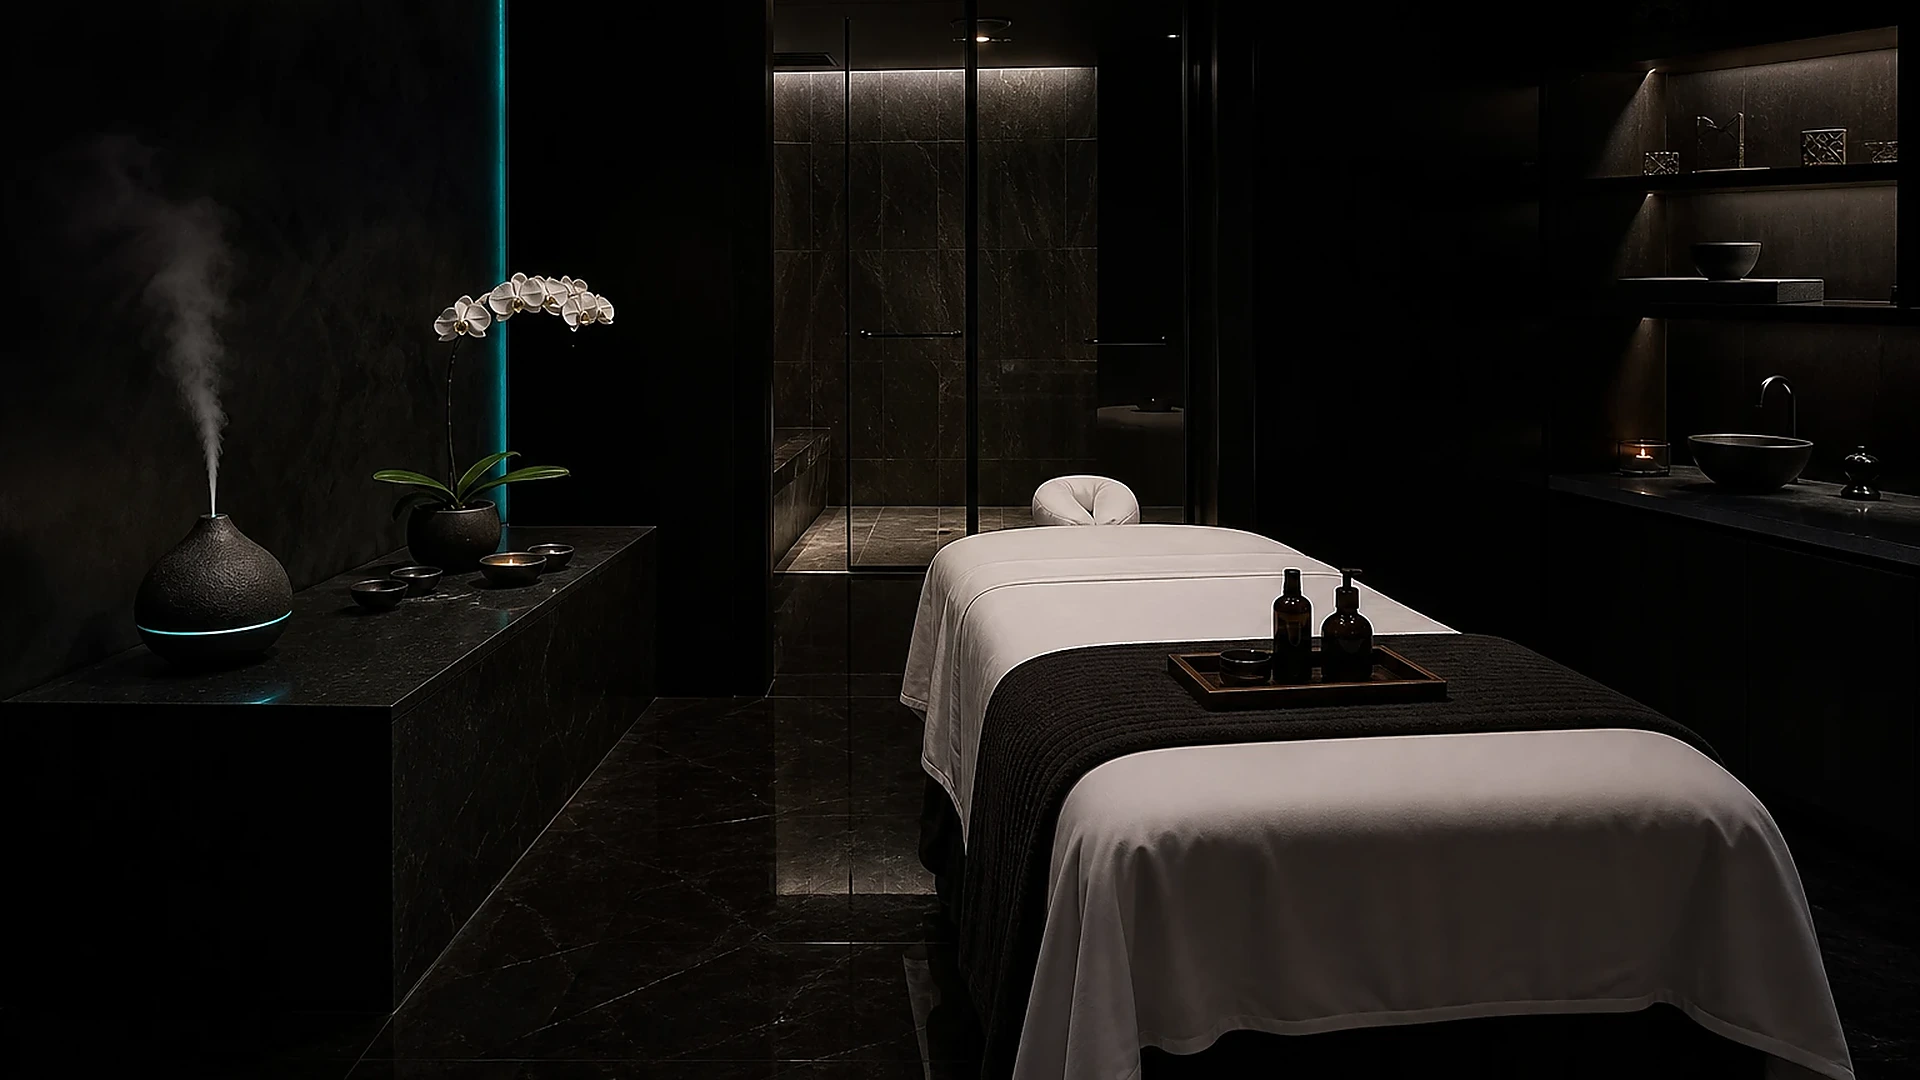
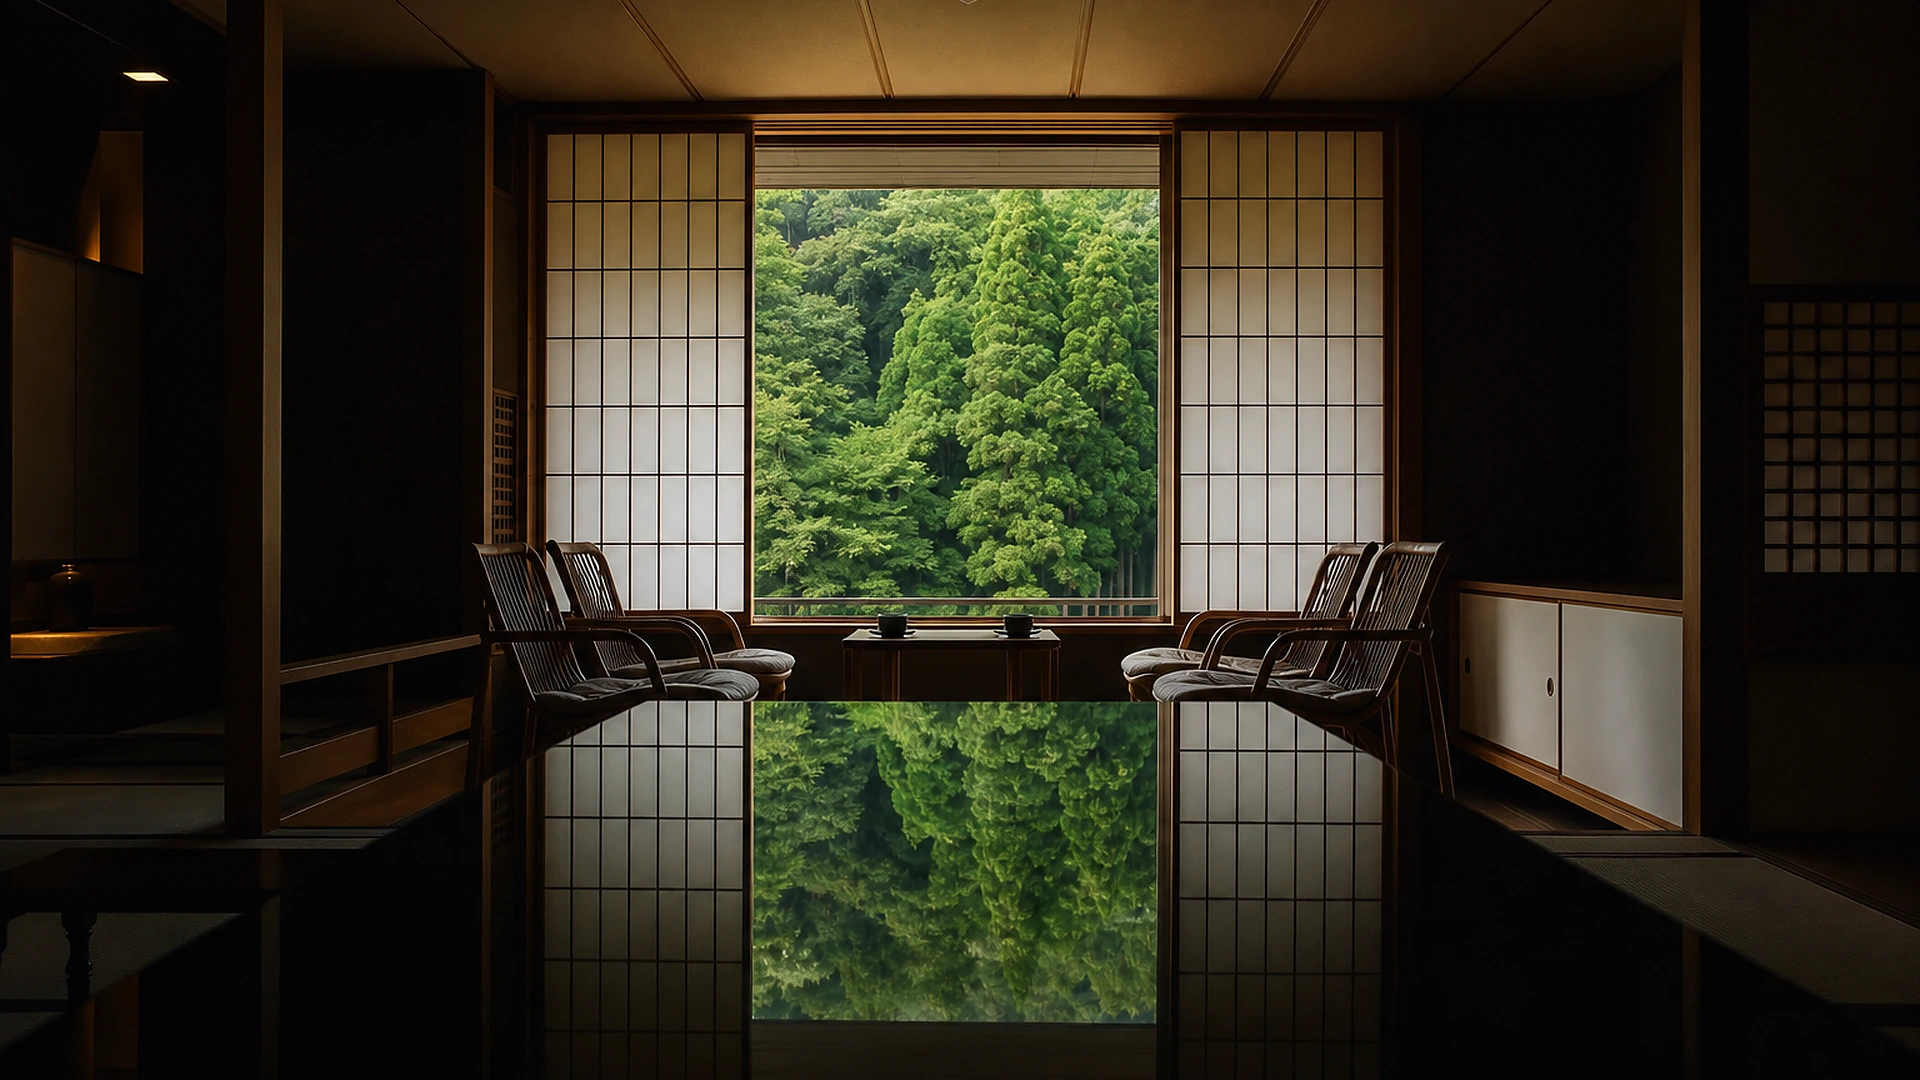
header

diff --git a/assets/css/pages/home-v4.css b/assets/css/pages/home-v4.css
@@ -112,7 +112,7 @@
   width: 100%;
   height: 100%;
   object-fit: cover;
-  object-position: center 42%;
+  object-position: center center;
   transform: translateZ(0);
   -webkit-backface-visibility: hidden;
   backface-visibility: hidden;
@@ -137,33 +137,26 @@
   width: 100%;
   max-width: var(--container-xl);
   margin-inline: auto;
-  padding: calc(var(--nav-height) + 4rem) var(--container-pad) clamp(5.5rem, 11vw, 8rem);
+  min-height: calc(100svh - var(--nav-height));
+  min-height: calc(100dvh - var(--nav-height));
+  padding: calc(var(--nav-height) + 1rem) var(--container-pad) 1.25rem;
   display: flex;
   flex-direction: column;
   align-items: center;
+  justify-content: center;
   text-align: center;
-}
-
-.hero2__eyebrow {
-  font-family: var(--font-body);
-  font-size: clamp(0.65rem, 1.5vw, 0.75rem);
-  font-weight: 500;
-  letter-spacing: 0.2em;
-  text-transform: uppercase;
-  color: rgba(255, 255, 255, 0.88);
-  margin-bottom: clamp(1.25rem, 3vw, 2rem);
-  animation: heroFadeUp 1.1s ease 0.5s both;
+  box-sizing: border-box;
 }
 
 .hero2__title {
   font-family: var(--font-display);
-  font-size: clamp(3.25rem, 10.5vw, 7.75rem);
+  font-size: clamp(2.35rem, 6.5vw, 4.75rem);
   font-weight: 400;
-  line-height: 1.05;
+  line-height: 1.06;
   letter-spacing: .01em;
   color: var(--text-primary);
-  max-width: 18ch;
-  margin-bottom: 2rem;
+  max-width: 20ch;
+  margin-bottom: 1rem;
   animation: heroFadeUp 1.1s ease .75s both;
 }
 .hero2__title em {
@@ -181,12 +174,12 @@
 
 .hero2__sub {
   font-family: var(--font-body);
-  font-size: clamp(1.1rem, 2.2vw, 1.35rem);
+  font-size: clamp(0.95rem, 1.75vw, 1.2rem);
   font-weight: 400;
   color: rgba(255, 255, 255, 0.88);
-  max-width: min(50ch, 100%);
-  line-height: 1.75;
-  margin-bottom: 3rem;
+  max-width: min(42ch, 100%);
+  line-height: 1.65;
+  margin-bottom: 1.5rem;
   animation: heroFadeUp 1.1s ease 1s both;
 }
 
@@ -202,9 +195,9 @@
 }
 
 .hero2__actions .btn--lg {
-  padding: 1.15rem 2.75rem;
-  font-size: 1rem;
-  min-height: 56px;
+  padding: 0.85rem 2rem;
+  font-size: 0.9rem;
+  min-height: 48px;
 }
 
 .hero2__actions .btn--ghost.btn--lg {
@@ -213,83 +206,79 @@
 
 @media (max-width: 767px) {
   .hero2 {
-    min-height: auto;
     min-height: 100svh;
+    min-height: 100dvh;
     width: 100%;
     max-width: 100%;
     overflow-x: hidden;
   }
 
   .hero2__inner {
-    padding: calc(var(--nav-height) + env(safe-area-inset-top) + 1.25rem)
+    min-height: calc(100svh - var(--nav-height));
+    min-height: calc(100dvh - var(--nav-height));
+    padding: calc(var(--nav-height) + env(safe-area-inset-top) + 0.5rem)
       1rem
-      clamp(3.5rem, 8vw, 5rem);
+      1rem;
     width: 100%;
     max-width: 100%;
     box-sizing: border-box;
-    align-items: stretch;
+    align-items: center;
     min-width: 0;
   }
 
-  .hero2__eyebrow {
-    font-size: 0.62rem;
-    letter-spacing: 0.16em;
-    margin-bottom: 1rem;
-    padding-inline: 0.5rem;
-    line-height: 1.5;
-  }
-
   .hero2__title {
-    font-size: clamp(2.5rem, 12vw, 3.5rem);
+    font-size: clamp(2rem, 9.5vw, 2.85rem);
     max-width: 100%;
     width: 100%;
     line-height: 1.08;
     word-wrap: break-word;
     overflow-wrap: break-word;
     hyphens: auto;
-    margin-bottom: 1.5rem;
+    margin-bottom: 0.75rem;
     padding-inline: 0;
   }
 
   .hero2__title em {
-    font-size: 1.18em;
+    font-size: 1.15em;
     line-height: 0.92;
   }
 
   .hero2__sub {
-    font-size: 1rem;
+    font-size: 0.9rem;
     max-width: 100%;
     width: 100%;
     min-width: 0;
     padding-inline: 0;
-    margin-bottom: 1.75rem;
-    line-height: 1.65;
+    margin-bottom: 1rem;
+    line-height: 1.6;
   }
 
   .hero2__actions {
     width: 100%;
     max-width: 100%;
     min-width: 0;
-    flex-direction: column;
+    flex-direction: row;
+    flex-wrap: wrap;
     align-items: center;
-    gap: 0.65rem;
+    justify-content: center;
+    gap: 0.5rem 0.75rem;
     padding-inline: 0;
   }
 
   .hero2__actions .btn,
   .hero2__actions .btn--lg {
     width: auto;
-    max-width: min(100%, 17.5rem);
+    max-width: min(100%, 16rem);
     align-self: center;
     min-width: 0;
     box-sizing: border-box;
     white-space: normal;
     text-align: center;
-    font-size: 0.72rem;
-    letter-spacing: 0.045em;
-    line-height: 1.3;
-    padding: 0.65rem 1.25rem;
-    min-height: 44px;
+    font-size: 0.68rem;
+    letter-spacing: 0.04em;
+    line-height: 1.25;
+    padding: 0.6rem 1.1rem;
+    min-height: 42px;
   }
 
   .hero2__actions .btn--primary {
@@ -304,6 +293,15 @@
 
   .hero2__bg img {
     object-position: center center;
+  }
+
+  body.has-mob-bar .hero2 {
+    min-height: calc(100dvh - 54px - env(safe-area-inset-bottom));
+  }
+
+  body.has-mob-bar .hero2__inner {
+    min-height: calc(100dvh - var(--nav-height) - 54px - env(safe-area-inset-bottom));
+    padding-bottom: 0.5rem;
   }
 
   .sec__title--large br {

diff --git a/cs/index.html b/cs/index.html
@@ -256,9 +256,8 @@
       </div>
       <div class="hero2__overlay" aria-hidden="true"></div>
       <div class="hero2__inner">
-        <p class="hero2__eyebrow">Praha 1 · Prémiový masážní salon</p>
-        <h1 class="hero2__title">Umění<br><em>relaxace</em><br>ve vašich rukou</h1>
-        <p class="hero2__sub">Certifikované masérky, privátní kabinety a luxusní atmosféra v srdci Prahy.</p>
+        <h1 class="hero2__title">Místo<br><em>odpočinku</em><br>a klidu</h1>
+        <p class="hero2__sub">Nechte stres za dveřmi. Privátní kabinety, vědomá masáž a atmosféra, kde si tělo i mysl konečně oddychnou.</p>
         <div class="hero2__actions">
           <a href="/cs/rozvrh/" class="btn btn--primary btn--lg">Rezervovat masáž</a>
           <a href="/cs/masaze/" class="btn btn--ghost btn--lg">Naše masáže</a>

diff --git a/en/index.html b/en/index.html
@@ -256,9 +256,8 @@
       </div>
       <div class="hero2__overlay" aria-hidden="true"></div>
       <div class="hero2__inner">
-        <p class="hero2__eyebrow">Prague 1 · Premium massage salon</p>
-        <h1 class="hero2__title">The art<br>of <em>relaxation</em><br>in your hands</h1>
-        <p class="hero2__sub">Certified masseuses, private cabins and a luxurious atmosphere in the heart of Prague.</p>
+        <h1 class="hero2__title">A place for<br><em>rest</em><br>and calm</h1>
+        <p class="hero2__sub">Leave stress at the door. Private cabins, mindful massage and an atmosphere where body and mind truly recover.</p>
         <div class="hero2__actions">
           <a href="/en/rozvrh/" class="btn btn--primary btn--lg">Book a massage</a>
           <a href="/en/masaze/" class="btn btn--ghost btn--lg">Our massages</a>

diff --git a/ru/index.html b/ru/index.html
@@ -256,9 +256,8 @@
       </div>
       <div class="hero2__overlay" aria-hidden="true"></div>
       <div class="hero2__inner">
-        <p class="hero2__eyebrow">Прага 1 · Премиальный массажный салон</p>
-        <h1 class="hero2__title">Искусство<br><em>расслабления</em><br>в ваших руках</h1>
-        <p class="hero2__sub">Сертифицированные массажистки, приватные кабинеты и роскошная атмосфера в центре Праги.</p>
+        <h1 class="hero2__title">Место<br><em>отдыха</em><br>и покоя</h1>
+        <p class="hero2__sub">Оставьте стресс за дверью. Приватные кабинеты, сознательный массаж и атмосфера, где тело и разум наконец отдохнут.</p>
         <div class="hero2__actions">
           <a href="/ru/rozvrh/" class="btn btn--primary btn--lg">Записаться на массаж</a>
           <a href="/ru/masaze/" class="btn btn--ghost btn--lg">Наши массажи</a>

diff --git a/templates/pages/home.html b/templates/pages/home.html
@@ -43,7 +43,6 @@
     </div>
     <div class="hero2__overlay" aria-hidden="true"></div>
     <div class="hero2__inner">
-      <p class="hero2__eyebrow">{{ home.hero_eyebrow }}</p>
       <h1 class="hero2__title">{{ home.hero_title|safe }}</h1>
       <p class="hero2__sub">{{ home.hero_sub }}</p>
       <div class="hero2__actions">

diff --git a/scripts/rebuild_home.py b/scripts/rebuild_home.py
@@ -8,9 +8,8 @@ ROOT = Path(__file__).resolve().parents[1]
 # ─── Texts ────────────────────────────────────────────────────────────────────
 T = {
     'cs': {
-        'hero_eyebrow':   'Praha 1 · Prémiový masážní salon',
-        'hero_title':     'Umění<br><em>relaxace</em><br>ve vašich rukou',
-        'hero_sub':       'Certifikované masérky, privátní kabinety a luxusní atmosféra v srdci Prahy.',
+        'hero_title':     'Místo<br><em>odpočinku</em><br>a klidu',
+        'hero_sub':       'Nechte stres za dveřmi. Privátní kabinety, vědomá masáž a atmosféra, kde si tělo i mysl konečně oddychnou.',
         'hero_cta1': 'Rezervovat masáž', 'hero_cta1_href': '/cs/rozvrh/',
         'hero_cta2': 'Naše masáže',      'hero_cta2_href': '/cs/masaze/',
         'svc_label': 'Naše masáže', 'svc_title': 'Relaxace pro každý moment',
@@ -46,9 +45,8 @@ T = {
         ],
     },
     'en': {
-        'hero_eyebrow':   'Prague 1 · Premium massage salon',
-        'hero_title':     'The art<br>of <em>relaxation</em><br>in your hands',
-        'hero_sub':       'Certified masseuses, private cabins and a luxurious atmosphere in the heart of Prague.',
+        'hero_title':     'A place for<br><em>rest</em><br>and calm',
+        'hero_sub':       'Leave stress at the door. Private cabins, mindful massage and an atmosphere where body and mind truly recover.',
         'hero_cta1': 'Book a massage', 'hero_cta1_href': '/en/rozvrh/',
         'hero_cta2': 'Our massages',   'hero_cta2_href': '/en/masaze/',
         'svc_label': 'Our massages', 'svc_title': 'Relaxation for every moment',
@@ -84,9 +82,8 @@ T = {
         ],
     },
     'ru': {
-        'hero_eyebrow':   'Прага 1 · Премиальный массажный салон',
-        'hero_title':     'Искусство<br><em>расслабления</em><br>в ваших руках',
-        'hero_sub':       'Сертифицированные массажистки, приватные кабинеты и роскошная атмосфера в центре Праги.',
+        'hero_title':     'Место<br><em>отдыха</em><br>и покоя',
+        'hero_sub':       'Оставьте стресс за дверью. Приватные кабинеты, сознательный массаж и атмосфера, где тело и разум наконец отдохнут.',
         'hero_cta1': 'Записаться на массаж', 'hero_cta1_href': '/ru/rozvrh/',
         'hero_cta2': 'Наши массажи',          'hero_cta2_href': '/ru/masaze/',
         'svc_label': 'Наши массажи', 'svc_title': 'Расслабление для каждого момента',
@@ -259,7 +256,6 @@ def build_main(lang):
       </div>
       <div class="hero2__overlay" aria-hidden="true"></div>
       <div class="hero2__inner">
-        <p class="hero2__eyebrow">{t['hero_eyebrow']}</p>
         <h1 class="hero2__title">{t['hero_title']}</h1>
         <p class="hero2__sub">{t['hero_sub']}</p>
         <div class="hero2__actions">

diff --git a/apps/pages/home_copy.py b/apps/pages/home_copy.py
@@ -2,9 +2,8 @@
 
 HOME_COPY = {
     'cs': {
-        'hero_eyebrow': 'Praha 1 · Prémiový masážní salon',
-        'hero_title': 'Umění<br><em>relaxace</em><br>ve vašich rukou',
-        'hero_sub': 'Certifikované masérky, privátní kabinety a luxusní atmosféra v srdci Prahy.',
+        'hero_title': 'Místo<br><em>odpočinku</em><br>a klidu',
+        'hero_sub': 'Nechte stres za dveřmi. Privátní kabinety, vědomá masáž a atmosféra, kde si tělo i mysl konečně oddychnou.',
         'hero_cta1': 'Rezervovat masáž',
         'hero_cta2': 'Naše masáže',
         'svc_label': 'Naše masáže',
@@ -44,9 +43,8 @@ HOME_COPY = {
         ],
     },
     'en': {
-        'hero_eyebrow': 'Prague 1 · Premium massage salon',
-        'hero_title': 'The art<br>of <em>relaxation</em><br>in your hands',
-        'hero_sub': 'Certified masseuses, private cabins and a luxurious atmosphere in the heart of Prague.',
+        'hero_title': 'A place for<br><em>rest</em><br>and calm',
+        'hero_sub': 'Leave stress at the door. Private cabins, mindful massage and an atmosphere where body and mind truly recover.',
         'hero_cta1': 'Book a massage',
         'hero_cta2': 'Our massages',
         'svc_label': 'Our massages',
@@ -86,9 +84,8 @@ HOME_COPY = {
         ],
     },
     'ru': {
-        'hero_eyebrow': 'Прага 1 · Премиальный массажный салон',
-        'hero_title': 'Искусство<br><em>расслабления</em><br>в ваших руках',
-        'hero_sub': 'Сертифицированные массажистки, приватные кабинеты и роскошная атмосфера в центре Праги.',
+        'hero_title': 'Место<br><em>отдыха</em><br>и покоя',
+        'hero_sub': 'Оставьте стресс за дверью. Приватные кабинеты, сознательный массаж и атмосфера, где тело и разум наконец отдохнут.',
         'hero_cta1': 'Записаться на массаж',
         'hero_cta2': 'Наши массажи',
         'svc_label': 'Наши массажи',